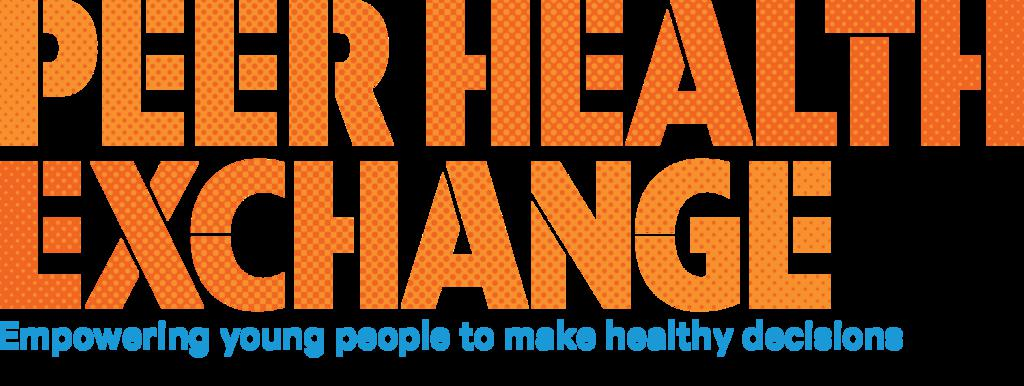
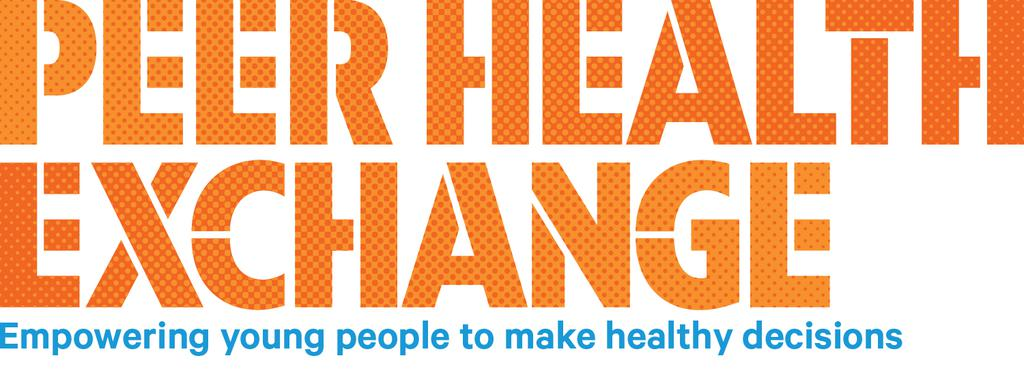
Fix background color behind images for Hashtag Luchbag and Peer Health Exchange

diff --git a/_layouts/project.html b/_layouts/project.html
@@ -49,6 +49,9 @@ stylesheets:
 {% endif %}
 {% endif %}
 
+{% assign image_url = page.project_image %}
+{% assign image_category = page.category %}
+
 <figure class="feature {% unless page.project_video != '' %} has-image{% endunless %}">
 <div data-aspect-ratio="1280/720">
 
@@ -57,10 +60,9 @@ stylesheets:
 {% else %}
 {% if page.project_video and page.project_video != '' %}
 <a href="{{ page.project_video }}" target="_blank" class="has-icon">
+{% else %}
+<a href="/assets/images/{{ page.category }}/2048-wide/{{ image_url }}" target="_blank">
 {% endif %}
-
-{% assign image_url = page.project_image %}
-{% assign image_category = page.category %}
 
 <img src="/assets/images/{{ page.category }}/2048-wide/{{ image_url }}" alt="" width="500" />
 
@@ -91,6 +93,8 @@ stylesheets:
       | replace: "www.", ""
       | split: "/" | first
     }}</span>
+</a>
+{% else %}
 </a>
 {% endif %}
 {% endif %}
